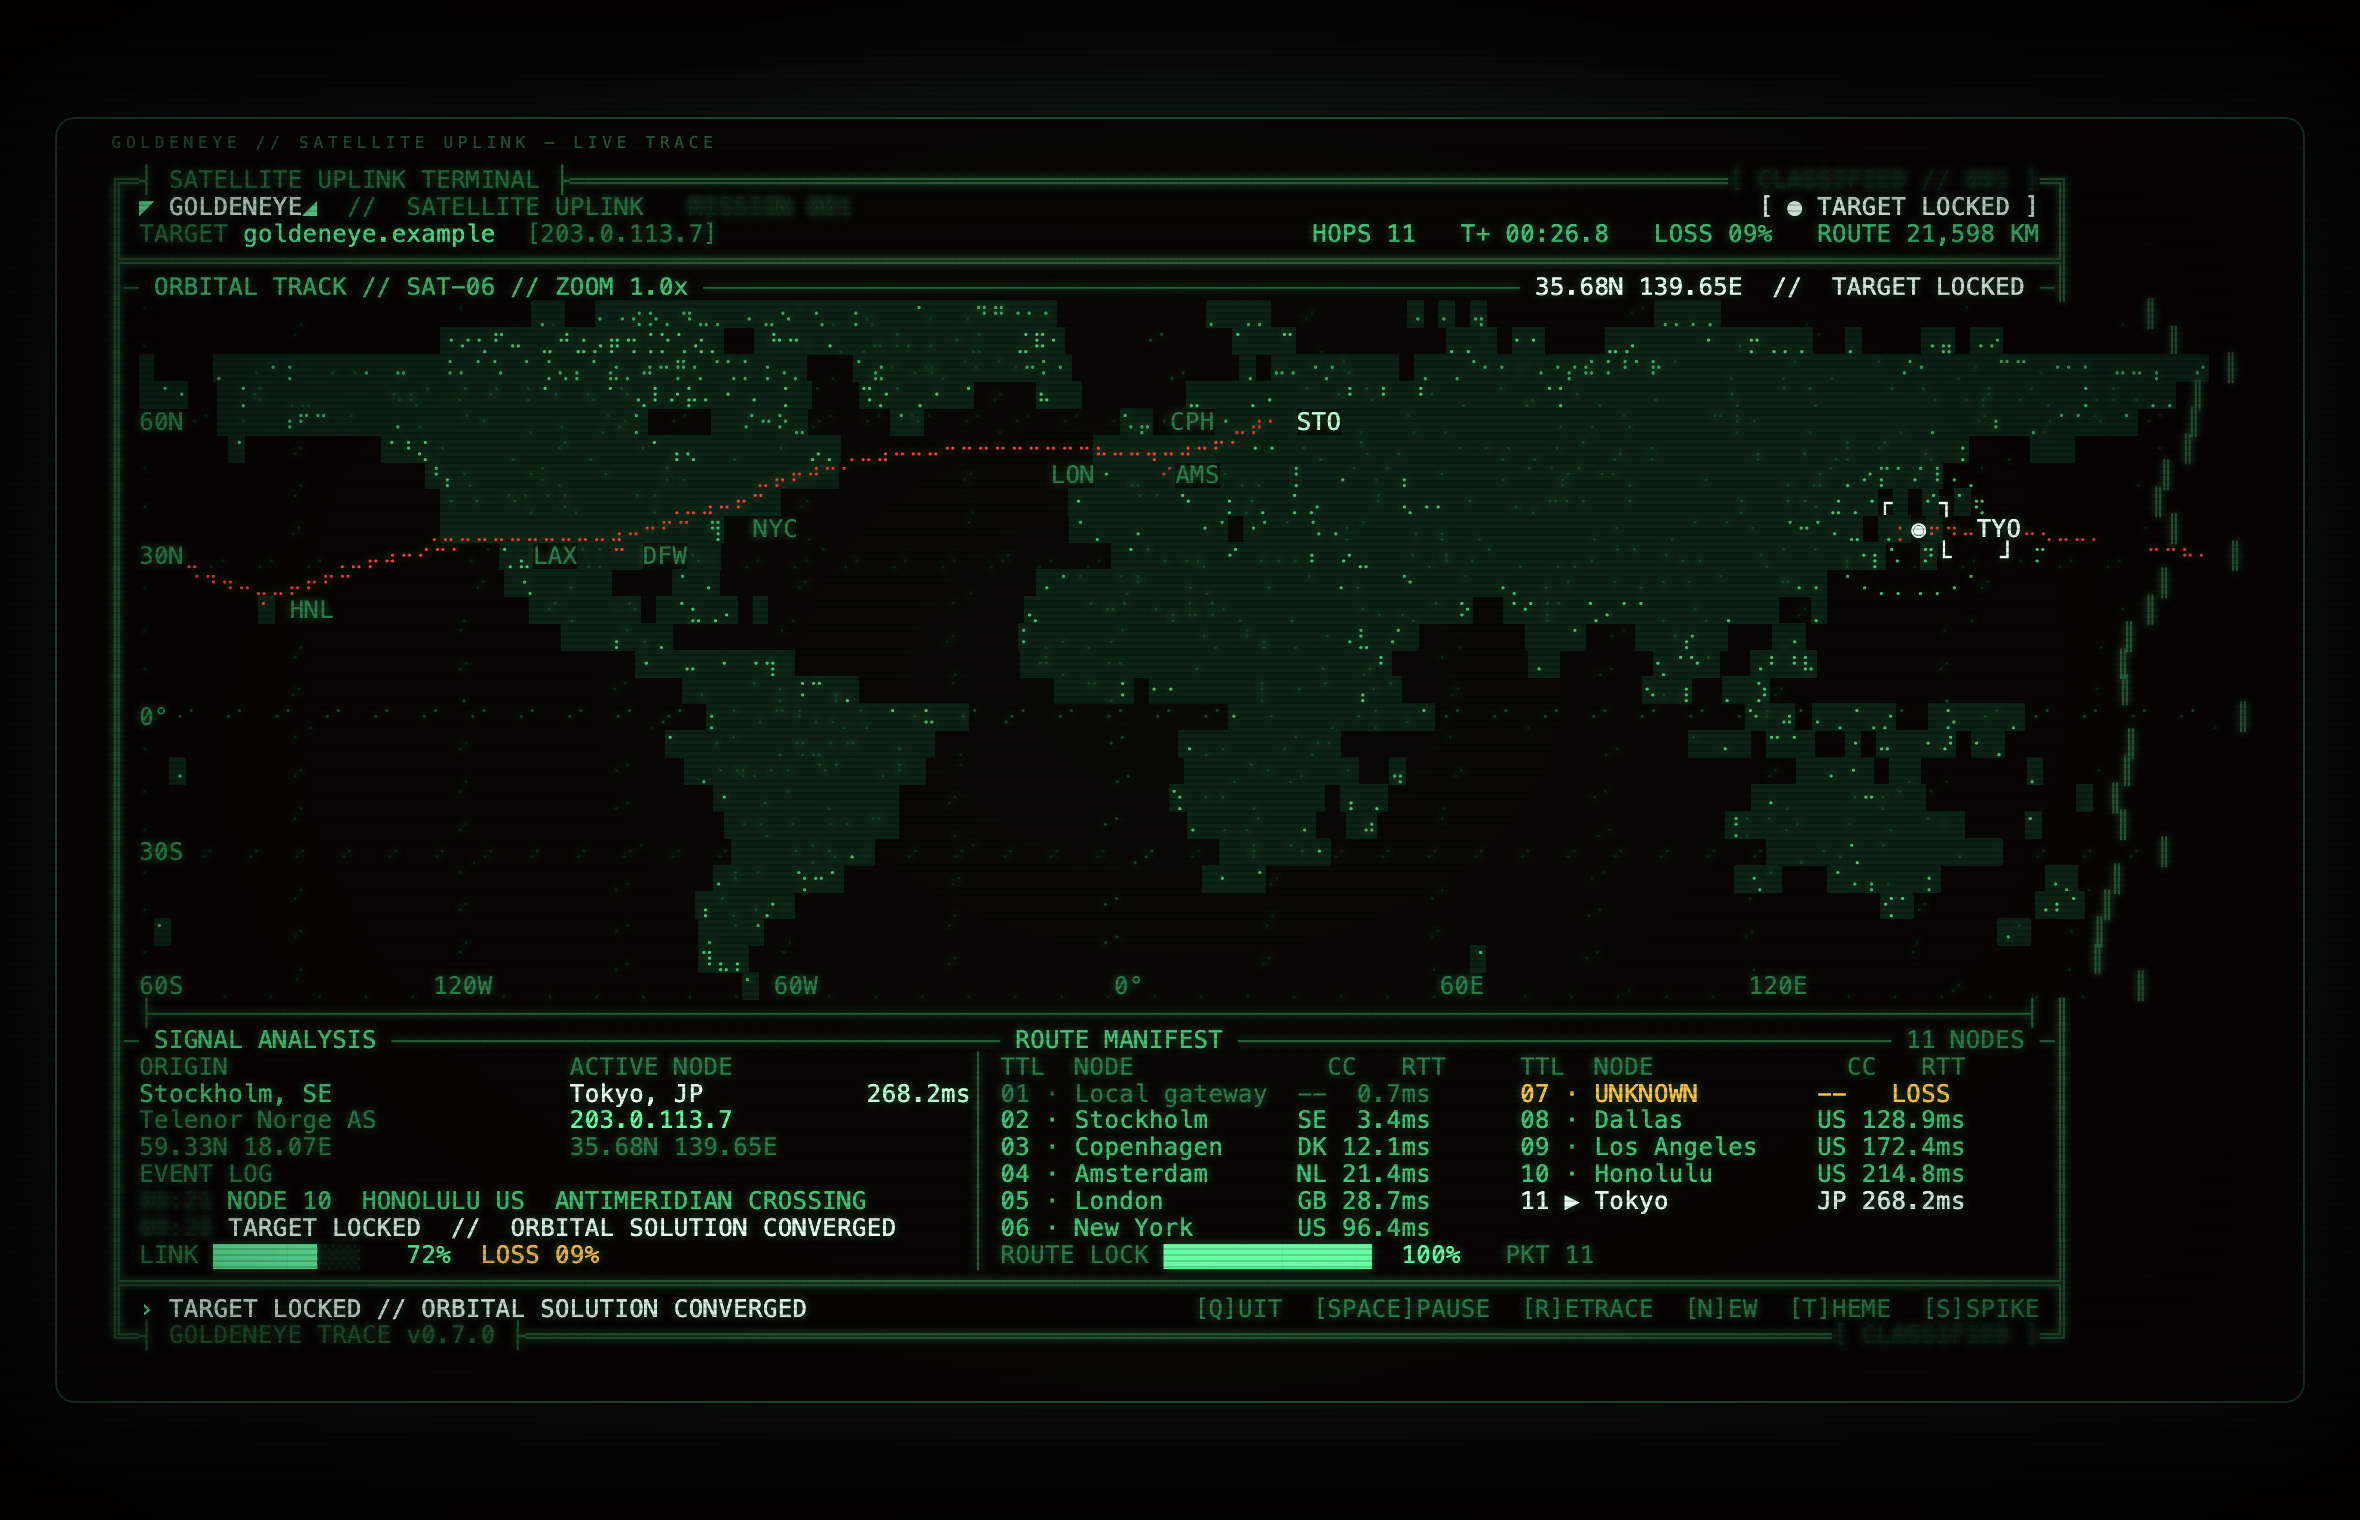
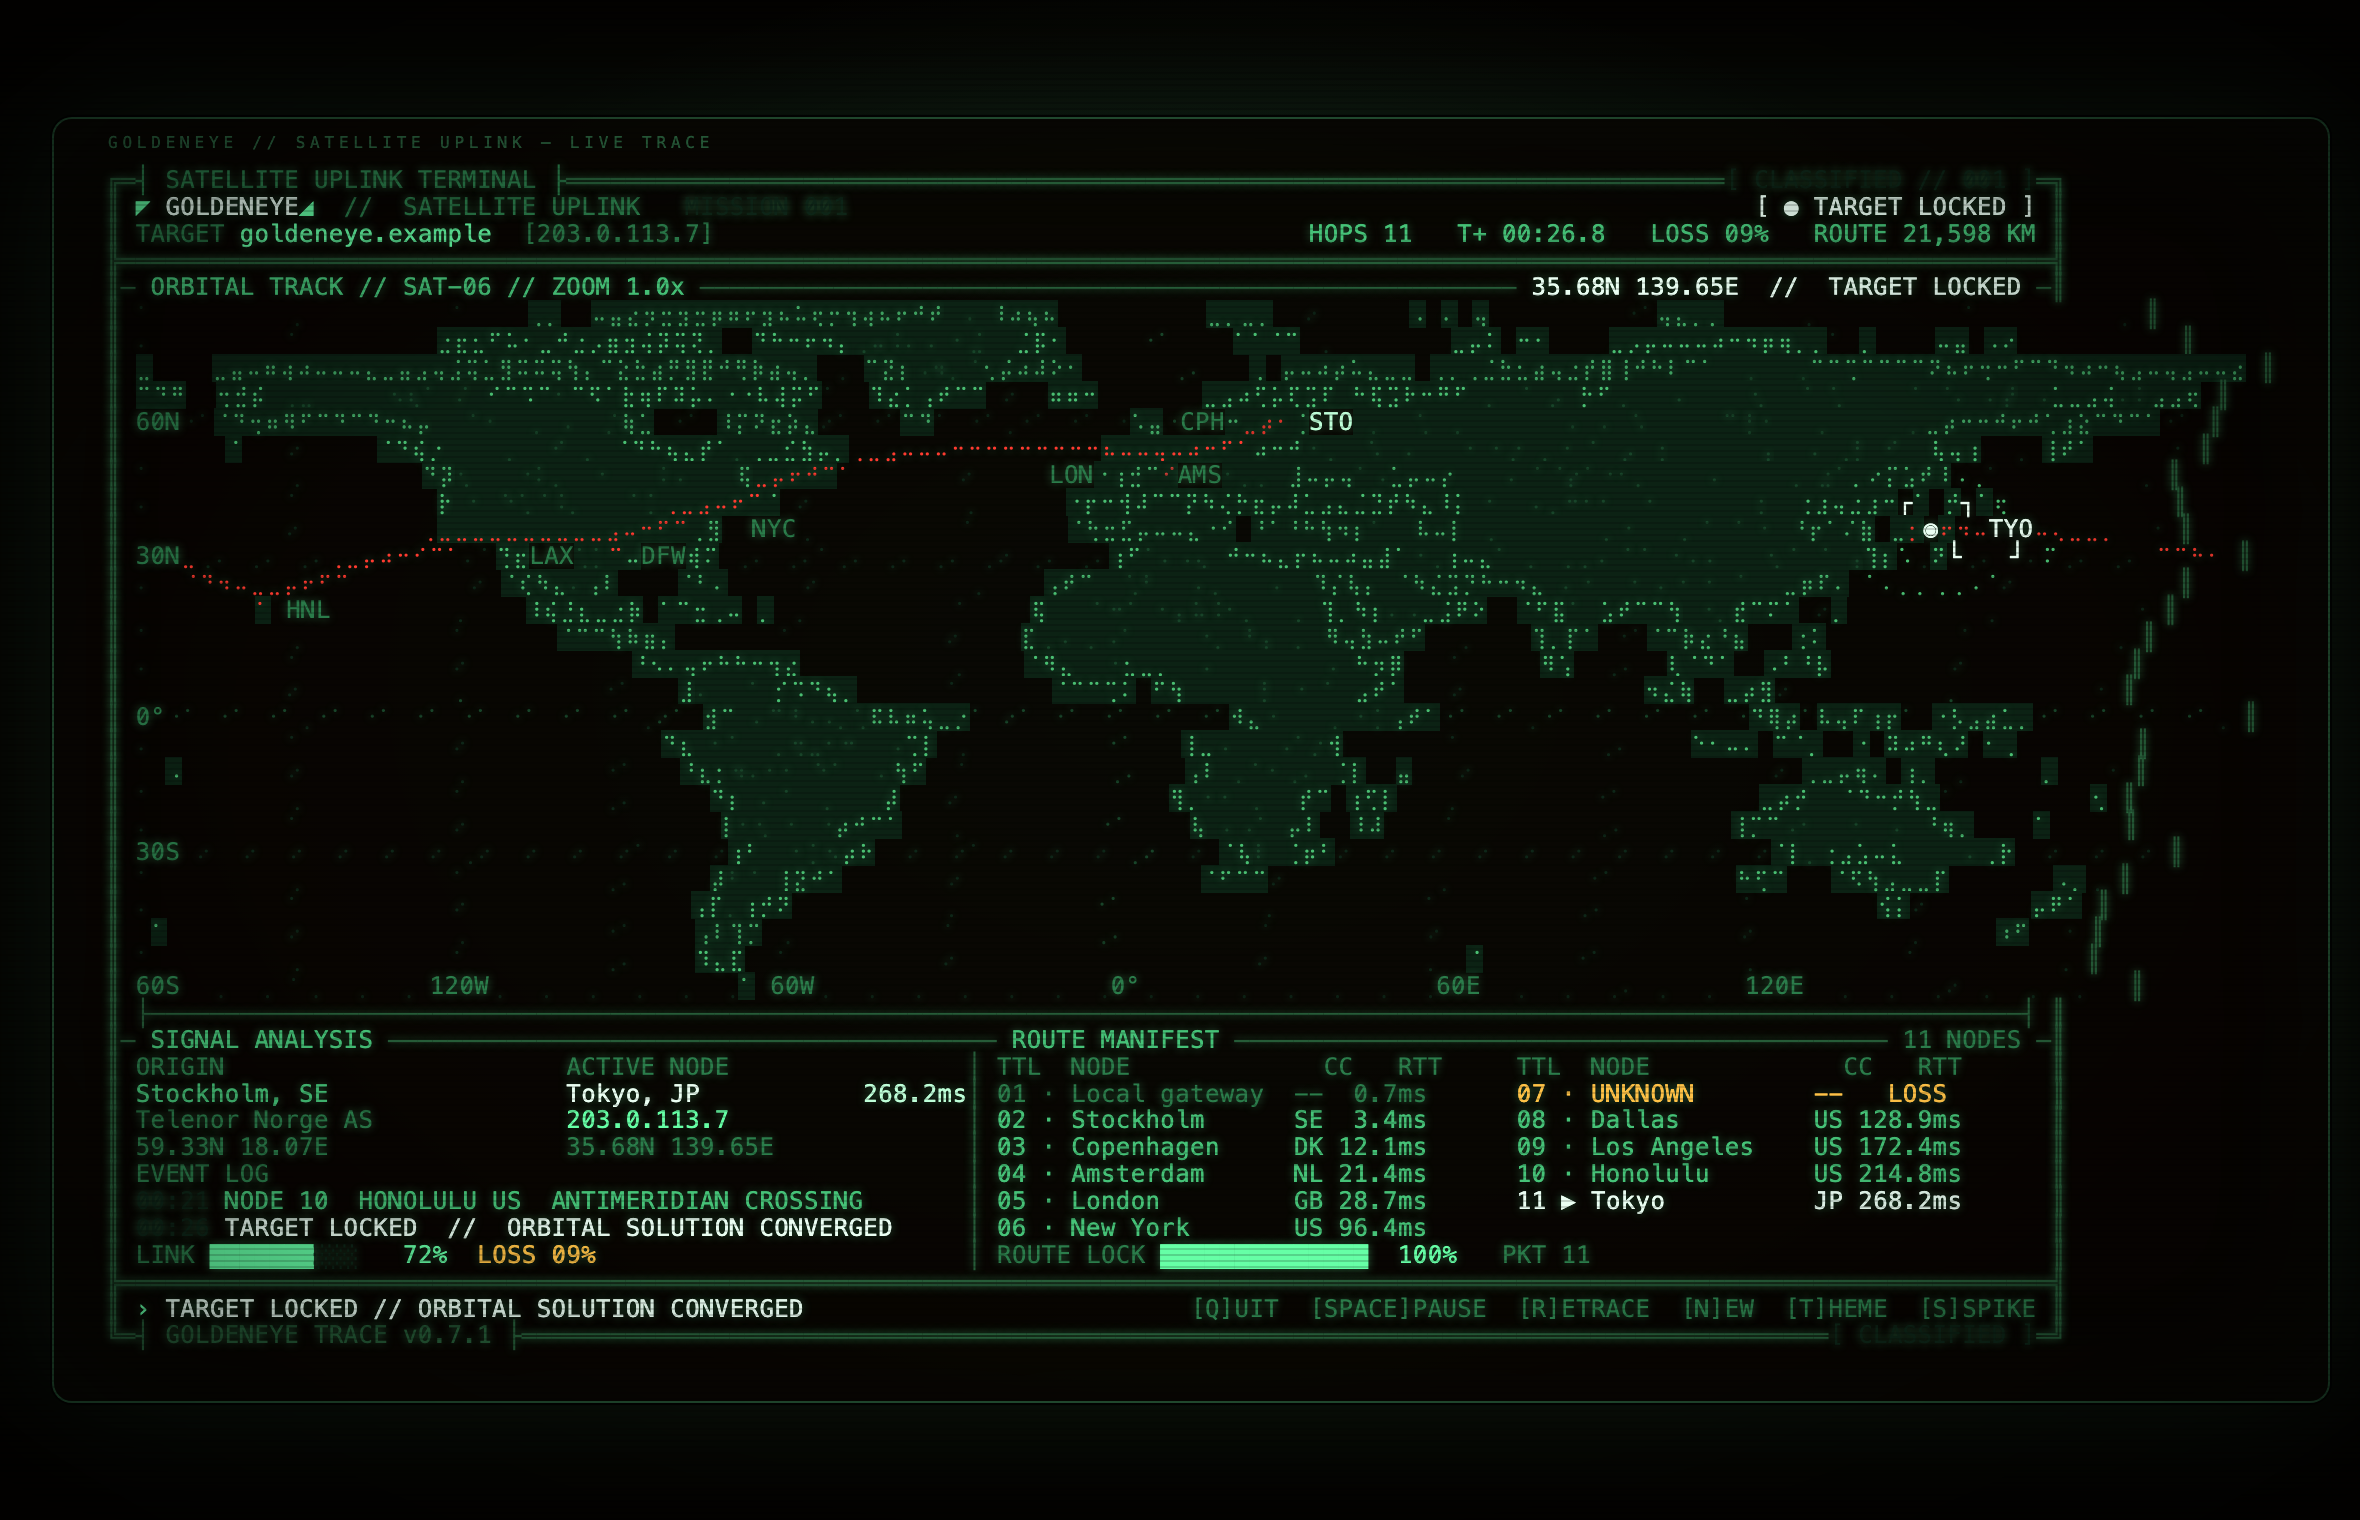
Trace coastlines on the rendered dot grid
The bright dots along land are coastline markers. They were previously detected with a fixed-radius mask lookup, which produced gaps and clusters at different zoom levels. Sample the land mask once per braille dot and derive a continuous one-dot coastline from the rendered grid instead. Bumps the CLI to v0.7.1.

diff --git a/src/render/frame.ts b/src/render/frame.ts
@@ -202,22 +202,48 @@ function drawTerrain(
     0.3,
   );
 
+  const lons = new Float32Array(canvas.dotWidth);
+  const lats = new Float32Array(canvas.dotHeight);
+  for (let x = 0; x < canvas.dotWidth; x += 1) {
+    lons[x] = bounds.west + ((x + 0.5) / canvas.dotWidth) * lonSpan;
+  }
   for (let y = 0; y < canvas.dotHeight; y += 1) {
-    const lat = bounds.north - ((y + 0.5) / canvas.dotHeight) * latSpan;
-    for (let x = 0; x < canvas.dotWidth; x += 1) {
-      const lon = bounds.west + ((x + 0.5) / canvas.dotWidth) * lonSpan;
-      const maskX = clamp(Math.floor(((lon + 180) / 360) * LAND_WIDTH), 0, LAND_WIDTH - 1);
-      const maskY = clamp(Math.floor(((90 - lat) / 180) * LAND_HEIGHT), 0, LAND_HEIGHT - 1);
+    lats[y] = bounds.north - ((y + 0.5) / canvas.dotHeight) * latSpan;
+  }
 
+  // Sample the mask once per braille dot, then derive coastlines from the
+  // rendered dot grid. The old fixed mask-radius test left gaps and clusters
+  // when the zoom level changed.
+  const landDots = new Uint8Array(canvas.dotWidth * canvas.dotHeight);
+  for (let y = 0; y < canvas.dotHeight; y += 1) {
+    const maskY = clamp(Math.floor(((90 - (lats[y] ?? 0)) / 180) * LAND_HEIGHT), 0, LAND_HEIGHT - 1);
+    for (let x = 0; x < canvas.dotWidth; x += 1) {
+      const maskX = clamp(
+        Math.floor((((lons[x] ?? 0) + 180) / 360) * LAND_WIDTH),
+        0,
+        LAND_WIDTH - 1,
+      );
       if (mask[maskY * LAND_WIDTH + maskX] === 1) {
+        landDots[y * canvas.dotWidth + x] = 1;
+      }
+    }
+  }
+
+  for (let y = 0; y < canvas.dotHeight; y += 1) {
+    const lat = lats[y] ?? 0;
+    for (let x = 0; x < canvas.dotWidth; x += 1) {
+      const lon = lons[x] ?? 0;
+      const index = y * canvas.dotWidth + x;
+      if (landDots[index] === 1) {
         canvas.markLand(x, y);
         let coastal = false;
-        for (let dy = -2; dy <= 2 && !coastal; dy += 1) {
-          for (let dx = -2; dx <= 2; dx += 1) {
-            const nx = maskX + dx;
-            const ny = maskY + dy;
-            if (nx < 0 || ny < 0 || nx >= LAND_WIDTH || ny >= LAND_HEIGHT) continue;
-            if (mask[ny * LAND_WIDTH + nx] !== 1) {
+        for (let dy = -1; dy <= 1 && !coastal; dy += 1) {
+          for (let dx = -1; dx <= 1; dx += 1) {
+            if (dx === 0 && dy === 0) continue;
+            const nx = x + dx;
+            const ny = y + dy;
+            if (nx < 0 || ny < 0 || nx >= canvas.dotWidth || ny >= canvas.dotHeight) continue;
+            if (landDots[ny * canvas.dotWidth + nx] === 0) {
               coastal = true;
               break;
             }

diff --git a/src/version.ts b/src/version.ts
@@ -1,1 +1,1 @@
-export const VERSION = "0.7.0";
+export const VERSION = "0.7.1";

diff --git a/README.md b/README.md
@@ -16,7 +16,7 @@
 ║ ORIGIN Stockholm, SE   →   ACTIVE Tokyo, JP   268.2ms   ROUTE LOCK 100%                ║
 ╠════════════════════════════════════════════════════════════════════════════════════════╣
 ║ › TARGET LOCKED // ORBITAL SOLUTION CONVERGED                                          ║
-╚═┤ GOLDENEYE TRACE v0.7.0 ├═════════════════════════════════════════════════════════════╝
+╚═┤ GOLDENEYE TRACE v0.7.1 ├═════════════════════════════════════════════════════════════╝
 ```
 
 ![GoldenEye Tracert running a locked demo mission](docs/preview.png)
@@ -30,7 +30,7 @@ The route is real. The satellite theater is not.
 - Defaults to ICMP probes on macOS/Windows, which reaches targets that filter UDP; use `--protocol udp` to match a plain `traceroute` run.
 - Looks up each public hop through [ip-api.com](https://ip-api.com/) in batches, with [ipwho.is](https://ipwho.is/) as a fallback. Results are cached for seven days.
 - Locates your own public origin through [ifconfig.co](https://ifconfig.co/), so the route starts where you are.
-- Draws a Natural Earth world map in Unicode braille, with a red great-circle route, pulsing reticle, city codes and live telemetry. Land masses get a faint background tint, while land stippling adapts to the available dot resolution.
+- Draws a Natural Earth world map in Unicode braille, with a red great-circle route, pulsing reticle, city codes and live telemetry. Land masses get a faint background tint, while coastlines are traced on the rendered dot grid so they stay continuous at every zoom.
 - Uses an adaptive camera: start at world scale, zoom into the first city, then pull back just enough to keep the growing route visible. The current scale is shown as `ZOOM` in the map header.
 - Interpolates great-circle arcs and splits them at the antimeridian, so a Honolulu → Tokyo hop wraps across the Pacific instead of cutting across the whole map.
 - Reports `TARGET LOCKED` only when the final hop really is the resolved target. Otherwise you get `NO TARGET LOCK`.
